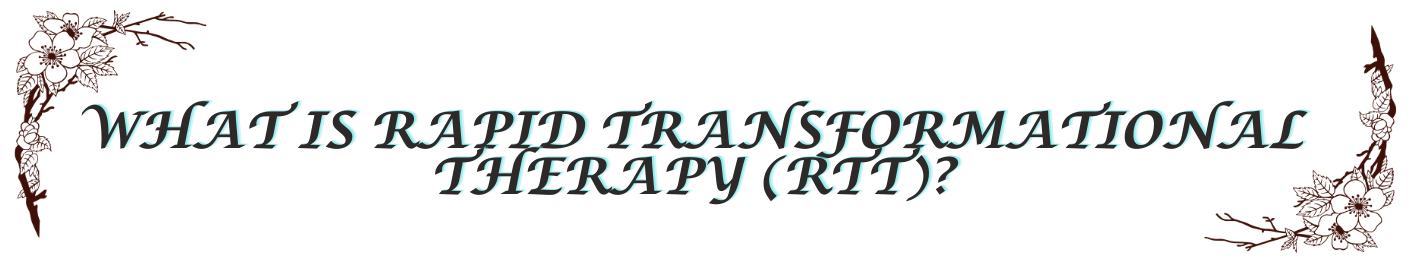
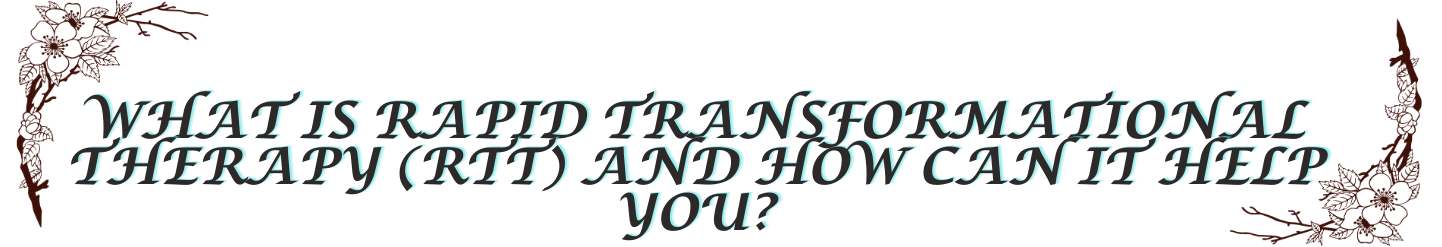
Scientific Page Added

Changed region(s): [[0.0, 0.0, 0.9888, 0.9919], [0.0, 0.8502, 0.0309, 0.9069]]

diff --git a/assets/css/main.css b/assets/css/main.css
@@ -2368,25 +2368,25 @@ Qualifications Style
 
 /* 
 ---------------------------------------------
-RTT Top Style
+RTT Style
 --------------------------------------------- 
 */
-.rtt_top {
+.rtt {
   background-color: #F5F5DC;
   padding: 60px 0px 60px 0px;
   text-align: center;
 }
 
-.rtt_top .header img {
+.rtt .header img {
   display: block;
   margin: 0 auto;
-  width: 70%;
+  width: 80%;
   height: auto;
   max-width: 100%;
   padding: 0px 0px 30px 0px;
 }
 
-.rtt_top .subheader img {
+.rtt .subheader img {
   display: block;
   margin: 0 auto;
   width: 60%;
@@ -2396,7 +2396,7 @@ RTT Top Style
 }
 
 
-.rtt_top .context p.one {
+.rtt .context p.one {
   font-size: 18px;
   line-height: 1.3;
   font-weight: 400;
@@ -2408,7 +2408,7 @@ RTT Top Style
   margin: 0 5% 0 5%;
 }
 
-.rtt_top .context p.two {
+.rtt .context p.two {
   font-size: 28px;
   line-height: 1.3;
   font-weight: 700;
@@ -2420,7 +2420,7 @@ RTT Top Style
   margin: 0 5% 0 5%;
 }
 
-.rtt_top .context p.three {
+.rtt .context p.three {
   font-size: 18px;
   line-height: 1.3;
   font-weight: 400;
@@ -2432,24 +2432,36 @@ RTT Top Style
   margin: 0 5% 0 5%;
 }
 
-.rtt_top .context p.four {
-  font-size: 30px;
+.rtt .context p.four {
+  font-size: 40px;
   line-height: 1.3;
   font-weight: 700;
   color: #843c0b;
   border-radius: 8px;
   text-align: center;
   padding: 50px 0px 10px 0px;
-  font-family: 'Lucida Calligraphy', normal;
+  font-family: 'Lucida Calligraphy', cursive;
+  margin: 0 10% 0 10%;
+}
+
+.rtt .context p.five {
+  font-size: 10px;
+  line-height: 1.3;
+  font-weight: 700;
+  color: #843c0b;
+  border-radius: 8px;
+  text-align: center;
+  padding: 150px 0px 10px 0px;
+  font-family: 'Lucida Calligraphy', cursive;
   margin: 0 15% 0 15%;
 }
 
-.rtt_top .highlighted-text {
+.rtt .highlighted-text {
   color: #000000;
   font-weight: bold;
 }
 
-.rtt_top span.button {
+.rtt span.button {
   background-color: #571b4c;
   color: #ffffff;
   font-size: 22px;
@@ -2463,13 +2475,108 @@ RTT Top Style
   text-align: center;
 }
 
-.rtt_top .footer img {
+.rtt .footer img {
   display: block;
   margin: 0 auto;
   width: 80%;
   height: auto;
   max-width: 100%;
   padding: 50px 0px 100px 0px;
+}
+
+
+
+/* 
+---------------------------------------------
+Scientific Style
+--------------------------------------------- 
+*/
+.scientific {
+  background-color: #f1e8d9;
+  padding: 60px 0px 60px 0px;
+  text-align: center;
+}
+
+.scientific .header img {
+  display: block;
+  margin: 0 auto;
+  width: 70%;
+  height: auto;
+  max-width: 100%;
+  padding: 0px 0px 50px 0px;
+}
+
+.scientific .context_right p.one {
+  font-size: 17px;
+  line-height: 1.2;
+  font-weight: 400;
+  color: #000000;
+  border-radius: 8px;
+  padding: 0px 0px 10px 0px;
+  text-align: right;
+  font-family: 'Arial', normal;
+}
+
+.scientific .highlighted-text {
+  color: #000000;
+  font-weight: bold;
+  font-family: 'Lucida Calligraphy', normal;
+  font-size: 22px;
+}
+
+.scientific .context_left img {
+  display: block;
+  margin-right: 0;
+  margin-left: auto;
+  width: 100%;
+  max-width: 100%;
+  height: auto;
+  padding: 0px 0px 0px 0px;
+}
+
+.scientific .context_middle p.one {
+  font-size: 17px;
+  line-height: 1.2;
+  font-weight: 400;
+  color: #000000;
+  border-radius: 8px;
+  padding: 0px 0px 10px 0px;
+  text-align: right;
+  font-family: 'Arial', normal;
+}
+
+.scientific .context_bottom p.one {
+  font-size: 28px;
+  line-height: 1.3;
+  font-weight: 600;
+  color: #00b0f0;
+  border-radius: 8px;
+  padding: 50px 0px 10px 0px;
+  text-align: center;
+  font-family: 'Arial', italic;
+}
+
+.scientific span.button {
+  background-color: #0000ff;
+  color: #ffffff;
+  font-size: 22px;
+  font-weight: 700;
+  text-transform: capitalize;
+  padding: 6px 15px;
+  display: inline-block;
+  margin-top: 30px;
+  border-radius: 25px;
+  display: inline-block;
+  text-align: center;
+}
+
+.scientific .footer img {
+  display: block;
+  margin: 0 auto;
+  width: 80%;
+  height: auto;
+  max-width: 100%;
+  padding: 50px 0px 50px 0px;
 }
 
 

diff --git a/pages/scientific_rtt.php b/pages/scientific_rtt.php
@@ -1,0 +1,146 @@
+<!DOCTYPE html>
+<lang="en">
+
+    <?php include "includes/head.php" ?>
+
+    <?php include "includes/header.php" ?>
+
+    <div class="main-banner">
+        <div class="scientific">
+            <div class="container">
+                <div class="row">
+
+                    <div class="col-lg-12">
+                        <div class="header-text">
+                            <div class="header">
+                                <img src="../assets/images/includes/scientific_header.png" alt="">
+                            </div>
+                        </div>
+                    </div>
+
+                    <div class="col-lg-7 col-md-12">
+                        <div class="context_right">
+                            <p class="one"><span class="highlighted-text">Neuroplasticity</span> refers to
+                                the brain’s ability to change, reorganize, and form new neural connections throughout
+                                life. It is involved in learning, adaptation, and healing. The Rapid Transformational
+                                Therapy aims to shift mental and emotional states, which, over time, could facilitate
+                                neuroplastic changes in the brain. There are interesting intersections with
+                                neuroplasticity in how RTT might work. RTT’s core strength lies in its ability to work
+                                directly with the <span class="highlighted-text"></span>subconscious mind, where up to
+                                <span class="highlighted-text">95% of our thoughts, behaviours, and
+                                    beliefs</span> are stored. RTT's foundation in reprogramming the subconscious mind
+                                links to
+                                neuroplasticity the reason for that, consequently changing thought patterns and
+                                emotional responses can alter neural pathways. One of the core principles of RTT is the
+                                importance of repetition and reinforcement of new positive beliefs. Repetition is a
+                                well-known factor that drives <span class="highlighted-text">Neuroplasticity.</span> In
+                                the context of RTT, repeated exposure
+                                to positive, empowering thoughts and emotional healing practices can gradually shift
+                                neural activity and strengthen new neural pathways.
+                                <br>
+                                RTT uses hypnosis as one of its core tools. Hypnosis has been widely studied in the
+                                context of neuroplasticity, and research has shown that hypnosis can alter brain
+                                activity, enhance suggestibility, and even change neural patterns related to stress,
+                                pain, and anxiety. <span class="highlighted-text">Research of The International Journal
+                                    of Clinical and Experimental
+                                    Hypnosis</span> has shown that hypnotic states can lead to changes in brain
+                                activity,
+                                particularly in areas associated with relaxation, sensory processing, and pain
+                                management. This suggests that through RTT, which leverages hypnosis, neuroplastic
+                                changes can occur.
+                                <br>
+                                RTT integrates elements of CBT, which has a substantial body of evidence supporting its
+                                influence on neuroplasticity. Studies have shown that CBT can lead to lasting changes in
+                                brain structure and function. For instance, CBT has been associated with increased grey
+                                matter volume in areas of the brain related to emotional regulation, such as the
+                                prefrontal cortex and hippocampus. Research published in <span
+                                    class="highlighted-text">Journal of Biological
+                                    Psychiatry, Cognitive Neuroscience and Neuroimaging</span> supports the idea that
+                                CBT enhances
+                                neuroplasticity by helping individuals create new, healthier thought patterns and
+                                responses to stressors.
+
+                            </p>
+
+                        </div>
+                    </div>
+
+                    <div class="col-lg-5 col-md-12">
+                        <div class="context_left">
+                            <img src="../assets/images/includes/scientific_subheader.png" alt="">
+                        </div>
+                    </div>
+
+
+
+                    <div class="col-lg-12">
+                        <div class="context_middle">
+                            <p class="one"> Some studies suggest that language and mental reprogramming techniques used
+                                in NLP (and
+                                also in RTT) can influence how individuals perceive and interact with the world,
+                                potentially facilitating neural reorganization. NLP posits that language shapes our
+                                reality, and by changing language patterns, individuals can alter the neurological
+                                circuits that shape their behaviour and responses. Some studies in <span
+                                    class="highlighted-text">Cognitive Psychology
+                                    and Behavioural Science</span> that language-based interventions could impact brain
+                                plasticity
+                                by altering habitual thought patterns.
+                                <br>
+                                Also, we need to consider the <span class="highlighted-text">Neurotransmitters</span> in
+                                this mix which they are the chemical
+                                messengers in our brain, play a crucial role in this process. They influence mood,
+                                motivation, and cognitive function, affecting everything from happiness (serotonin and
+                                dopamine) to stress (cortisol). The NLP techniques can help optimize thought patterns,
+                                also promoting positive neurochemical responses, leading to improved mental states and
+                                behaviours. Essentially, by shifting our thought processes using NLP, we can positively
+                                impact neurotransmitter release and foster better emotional and psychological
+                                well-being.
+                            </p>
+                        </div>
+                    </div>
+
+                    <div class="col-lg-12">
+                        <div class="context_bottom">
+
+                            <p class="one"><i>If you’re ready to take control of your life and experience the power of
+                                transformation, you’re in the right place. Let’s work together to unlock the best
+                                version of you.</i>
+                            </p>
+
+                            <span class="button">BOOK A FREE DISCOVERY CALL NOW!...</span>
+
+                            <div class="footer">
+                                <img src="../assets/images/includes/scientific_footer.png" alt="">
+                            </div>
+
+                        </div>
+                    </div>
+
+
+
+                </div>
+            </div>
+        </div>
+
+
+
+    </div>
+    </div>
+
+    </Main>
+
+    <?php include "includes/footer.php" ?>
+
+    <!-- Scripts -->
+    <!-- Bootstrap core JavaScript -->
+    <script src="../vendor/jquery/jquery.min.js"></script>
+    <script src="../vendor/bootstrap/js/bootstrap.min.js"></script>
+    <script src="../assets/js/isotope.min.js"></script>
+    <script src="../assets/js/owl-carousel.js"></script>
+    <script src="../assets/js/counter.js"></script>
+    <script src="../assets/js/custom.js"></script>
+    <script src="https://cdn.jsdelivr.net/npm/bootstrap@5.3.2/dist/js/bootstrap.bundle.min.js"></script>
+
+    </body>
+
+    </html>

diff --git a/pages/what_rtt.php b/pages/what_rtt.php
@@ -6,7 +6,7 @@
     <?php include "includes/header.php" ?>
 
     <div class="main-banner">
-        <div class="rtt_top">
+        <div class="rtt section">
             <div class="container">
                 <div class="row">
 
@@ -27,8 +27,8 @@
                     <div class="col-lg-12">
                         <div class="context">
                             <p class="one"><span class="highlighted-text">Rapid Transformational Therapy (RTT),</span>
-                                created by GLOBALLY RECOGNIZED MARISA PEER,</span> is an innovative therapeutic approach
-                                grounded in neuroscience. It delivers<span class="highlighted-text">effective, fast,
+                                created by <span class="highlighted-text">GLOBALLY RECOGNIZED MARISA PEER,</span> is an innovative therapeutic approach
+                                grounded in neuroscience. It delivers <span class="highlighted-text">effective, fast,
                                     powerful and TRANSFORMATIVE</span> results by integrating the most effective and
                                 powerful principles of Hypnotherapy, Psychotherapy, NLP, and CBT. In just a few powerful
                                 sessions, RTT helps you to uncover and heal the root causes of your struggles—whether
@@ -59,8 +59,8 @@
                                 emotional pain and physical discomfort. Clients have reported improvement in areas like
                                 chronic pain, sleep issues, weight loss challenges, and even more severe
                                 conditions—simply by addressing the emotional and mental root causes. RTT gives you the
-                                tools and insights you need to live a life of empowerment, purpose, and fulfilment. By
-                                eliminating the negative subconscious programming that’s been holding you back, RTT
+                                tools and insights in order to live a life of empowerment, purpose, and fulfilment. It is
+                                eliminating the negative subconscious programming that’s been holding you back. Also, RTT
                                 helps you discover a deeper sense of confidence and self-worth, allowing you to pursue
                                 your dreams with courage and clarity.
                             </p>

diff --git a/pages/includes/header.php b/pages/includes/header.php
@@ -52,6 +52,7 @@
                   <ul class="dropdown-menu">
                     <li><a href="about_me.php">MEET SERVET</a></li>
                     <li><a href="what_rtt.php">WHAT IS RTT?</a></li>
+                    <li><a href="scientific_rtt.php">SCIENTIFIC OVERVIEW OF RTT</a></li>
                     <li><a href="#">HOW IT WORKS</a></li>
                   </ul>
                 </li>
